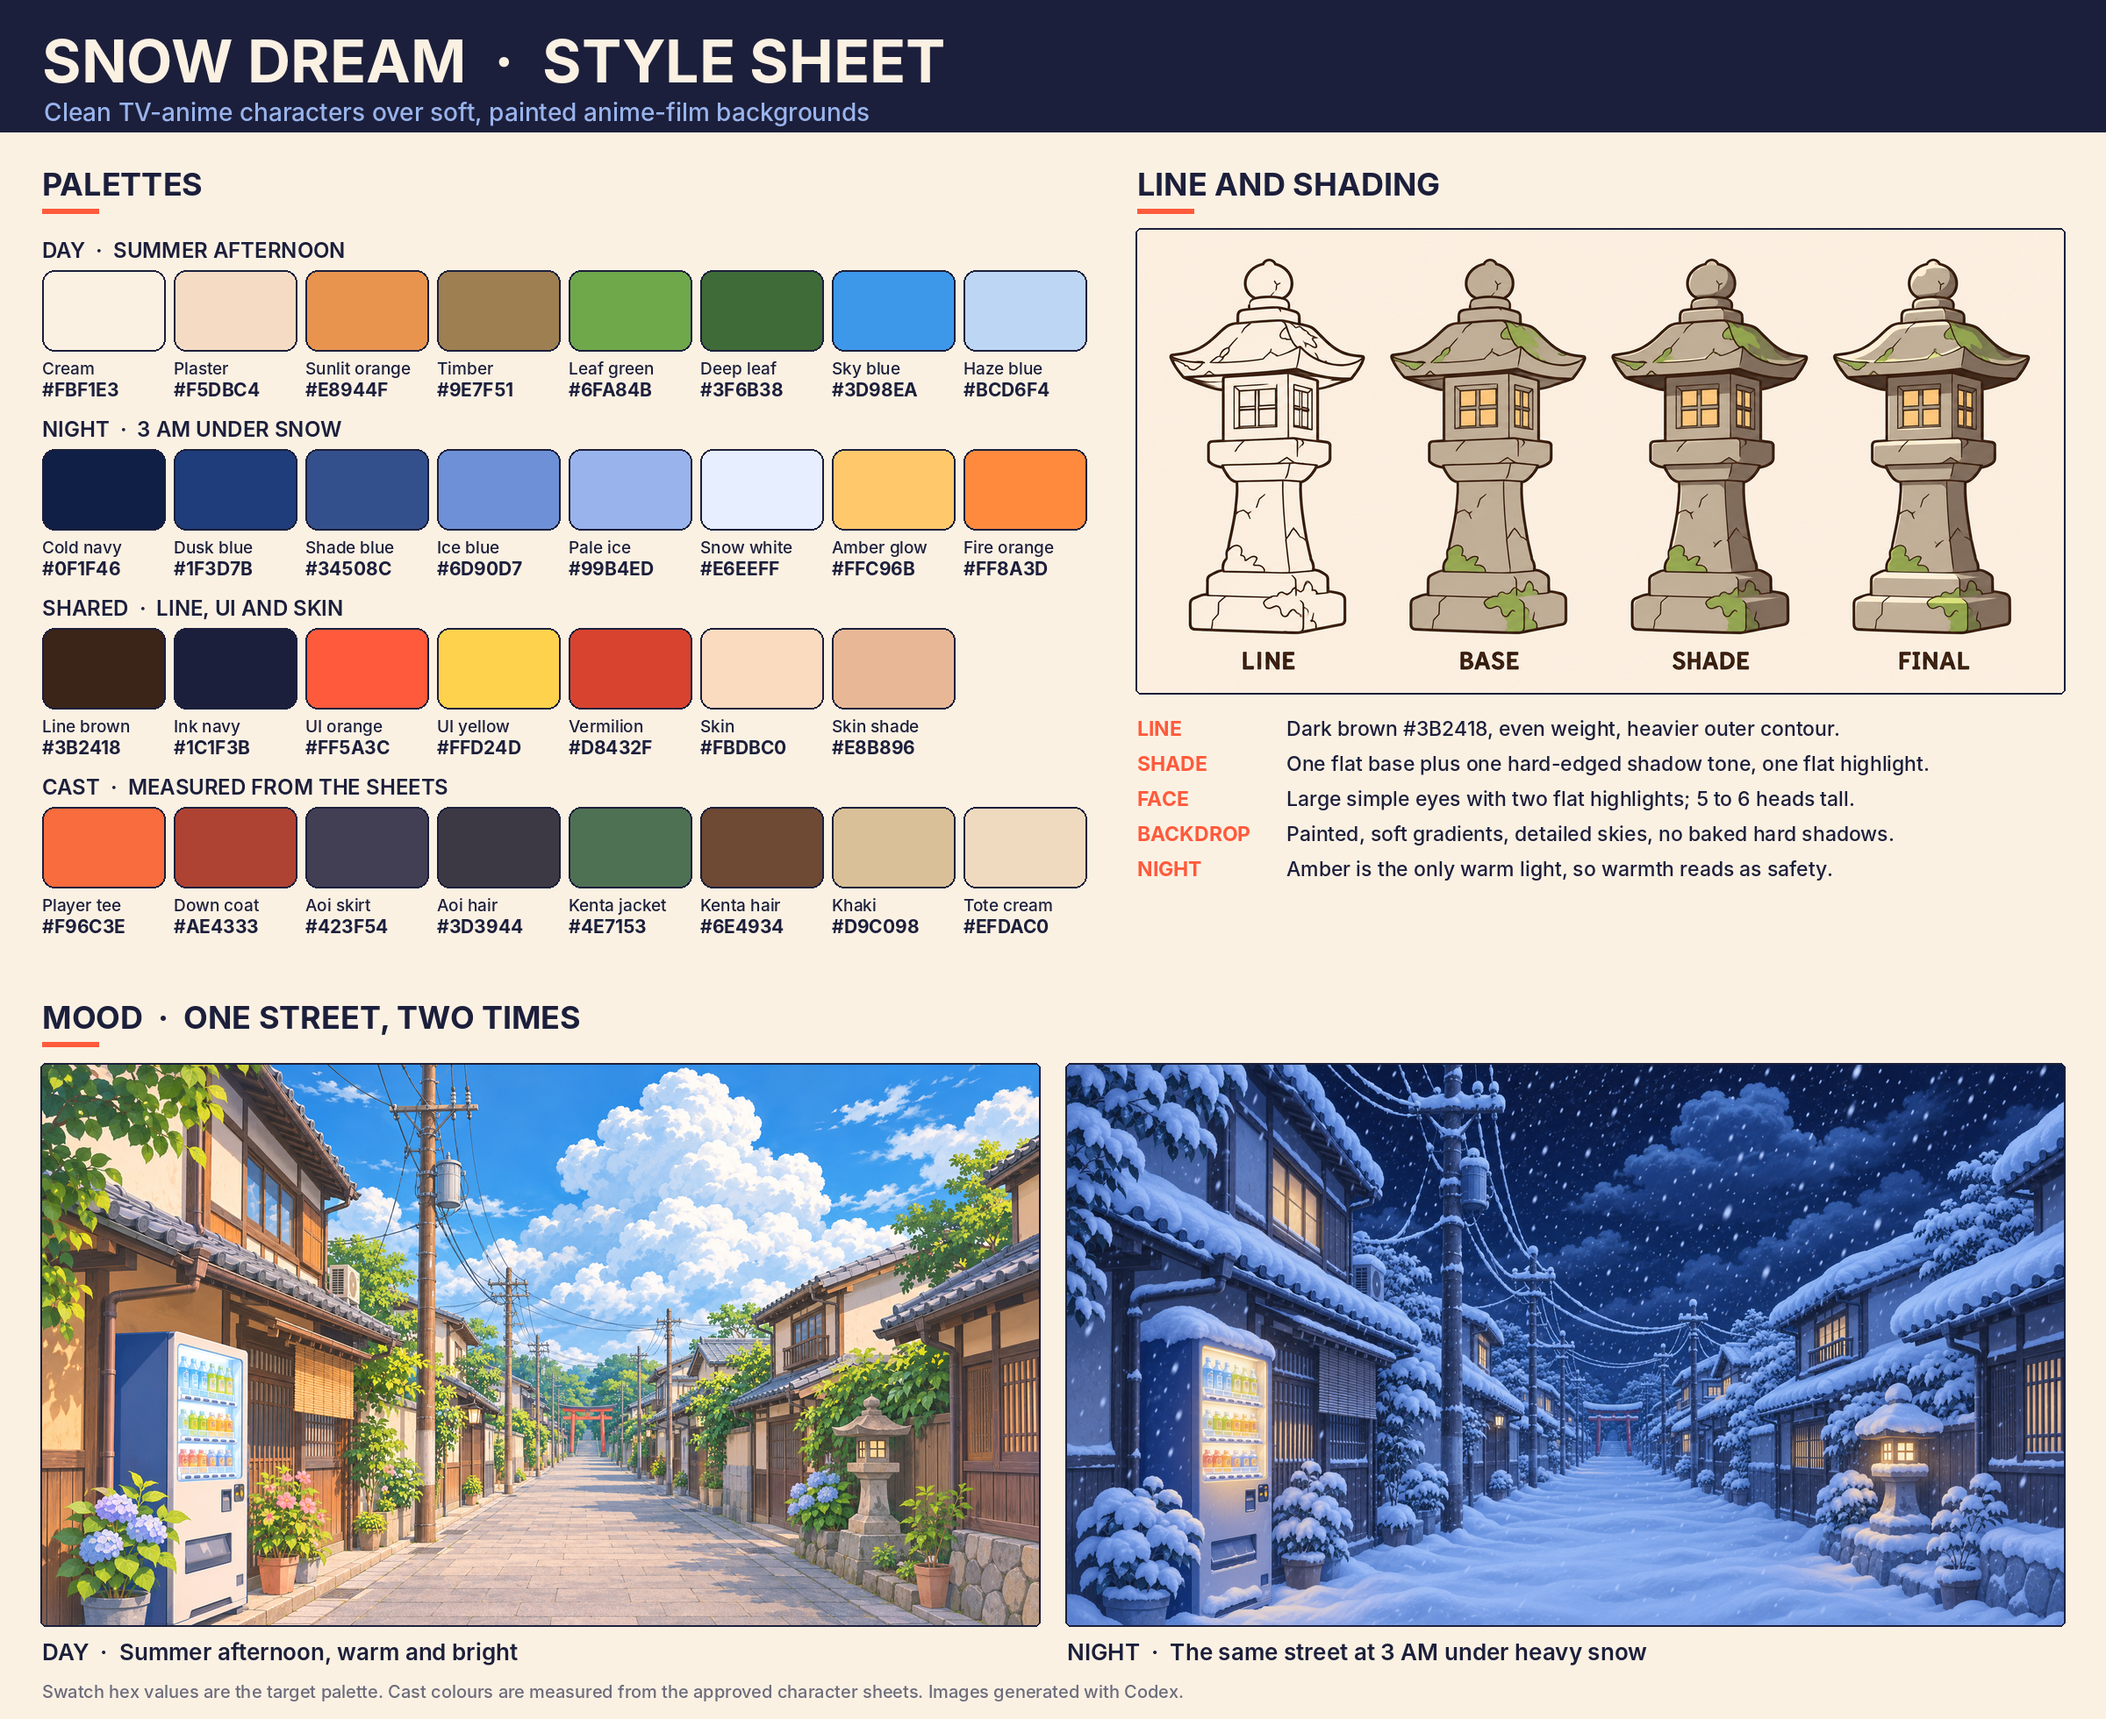
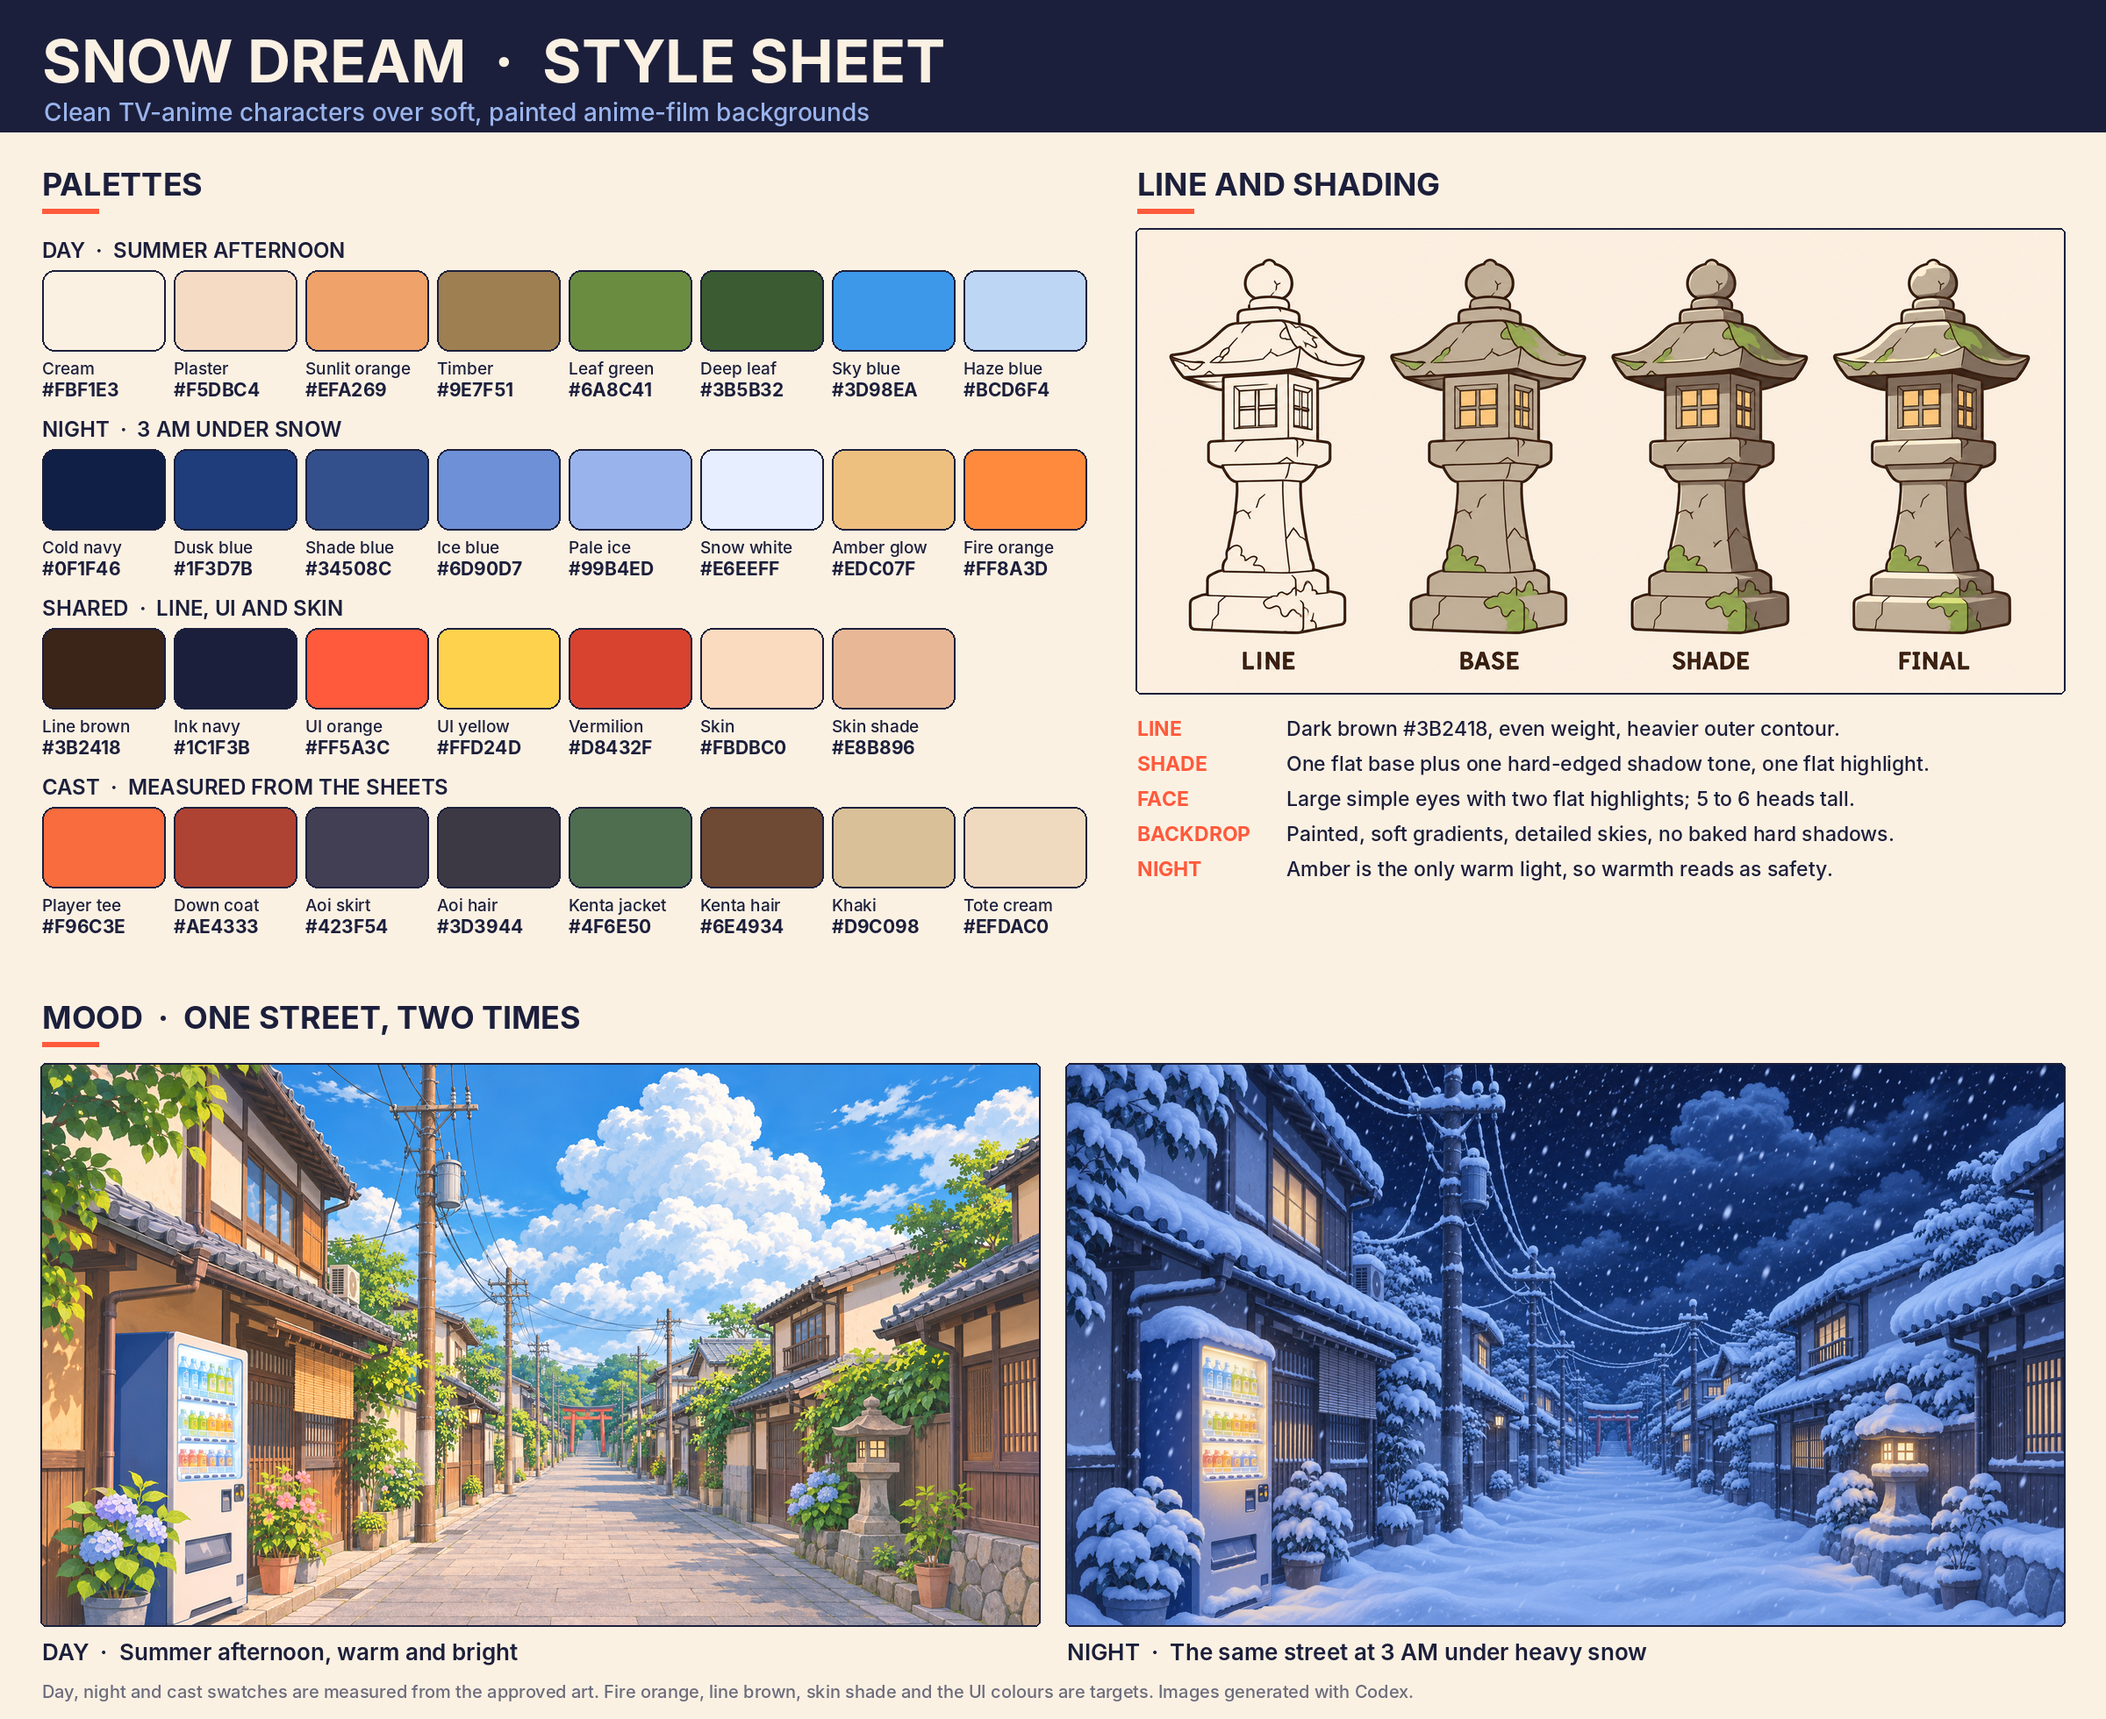
Art: measure palette from the approved frames, fix Kenta bag note (HPA-1324 self review)
Claude-Session: https://claude.ai/code/session_01DWqgZbxyDubw1MZBEb2rgz

diff --git a/art/style/README.md b/art/style/README.md
@@ -28,17 +28,17 @@ One look for every image in the game: **clean TV-anime characters over soft, pai
 
 ## Palette
 
-Target values. Swatches are on `style_sheet.png`.
+Day, night and cast values are measured from the approved art. Fire orange (not in the frames yet), line brown, skin shade and the UI colours are targets. Swatches are on `style_sheet.png`.
 
 | Day | Hex | Night | Hex |
 |---|---|---|---|
 | Cream | `#FBF1E3` | Cold navy | `#0F1F46` |
 | Plaster | `#F5DBC4` | Dusk blue | `#1F3D7B` |
-| Sunlit orange | `#E8944F` | Shade blue | `#34508C` |
+| Sunlit orange | `#EFA269` | Shade blue | `#34508C` |
 | Timber | `#9E7F51` | Ice blue | `#6D90D7` |
-| Leaf green | `#6FA84B` | Pale ice | `#99B4ED` |
-| Deep leaf | `#3F6B38` | Snow white | `#E6EEFF` |
-| Sky blue | `#3D98EA` | Amber glow | `#FFC96B` |
+| Leaf green | `#6A8C41` | Pale ice | `#99B4ED` |
+| Deep leaf | `#3B5B32` | Snow white | `#E6EEFF` |
+| Sky blue | `#3D98EA` | Amber glow | `#EDC07F` |
 | Haze blue | `#BCD6F4` | Fire orange | `#FF8A3D` |
 
 | Shared | Hex | Cast (measured from the sheets) | Hex |
@@ -47,7 +47,7 @@ Target values. Swatches are on `style_sheet.png`.
 | Ink navy (UI panel) | `#1C1F3B` | Protagonist down coat | `#AE4333` |
 | UI orange (tag) | `#FF5A3C` | Aoi skirt | `#423F54` |
 | UI yellow | `#FFD24D` | Aoi hair | `#3D3944` |
-| Vermilion (torii, omamori) | `#D8432F` | Kenta jacket | `#4E7153` |
+| Vermilion (torii, omamori) | `#D8432F` | Kenta jacket | `#4F6E50` |
 | Skin | `#FBDBC0` | Kenta hair | `#6E4934` |
 | Skin shade | `#E8B896` | Khaki trousers | `#D9C098` |
 
@@ -55,7 +55,7 @@ Target values. Swatches are on `style_sheet.png`.
 
 - **Protagonist** (no name in the game): 20, ordinary and likeable, a little sleepy-eyed. Short messy black hair with one cowlick (his silhouette mark), navy canvas bag strap across the body. Summer: orange tee, khaki cropped chinos, white sneakers. Down coat: deep-red hip-length puffer with horizontal baffles, cream scarf, dark trousers and boots.
 - **Aoi**: 19, the folklore club's only member, earnest and a little guarded. Straight blue-black bob with blunt bangs, white short-sleeve blouse, indigo pleated skirt, cream canvas tote with a notebook and a small red omamori charm. Reserved posture, arms close.
-- **Kenta**: 20, loud and friendly, collects Osaka urban legends. Messy spiky chestnut hair, wide grin, green zip jacket with sleeves pushed up over a cream graphic tee, dark cargo shorts, navy high-tops, a sticker-covered sling bag. In the side view the bag hangs on the near hip, in front and back views on his right hip; keep it on his right hip in sprites.
+- **Kenta**: 20, loud and friendly, collects Osaka urban legends. Messy spiky chestnut hair, wide grin, green zip jacket with sleeves pushed up over a cream graphic tee, dark cargo shorts, navy high-tops, a sticker-covered sling bag. The bag hangs on his right hip in every view, strap over his left shoulder.
 
 ## Files
 
@@ -73,7 +73,7 @@ Target values. Swatches are on `style_sheet.png`.
 Paste this block first in every Codex art prompt, then the item-specific text.
 
 ```text
-Style: clean TV-anime character art over soft, painted anime-film backgrounds, for a 2.5D game set in a summer Osaka neighbourhood that is buried in snow at 3 AM. Characters: clean dark-brown line art (#3B2418), even line weight with a slightly heavier outer contour, two-tone cel shading (one flat base colour plus one hard-edged shadow tone, one flat highlight band on hair), large simple anime eyes with two flat highlights, simplified hands, about 5 to 6 heads tall, a clear silhouette that still reads at 140 px tall. No gradients, airbrush or texture noise on characters, no baked ground shadow. Backgrounds and props: painted, soft gradients, detailed skies, no hard baked cast shadows (the game lights the scene). No text, logos or watermarks unless the prompt asks for specific short labels. Day palette (warm and bright): cream #FBF1E3, plaster #F5DBC4, sunlit orange #E8944F, timber #9E7F51, leaf green #6FA84B, deep leaf #3F6B38, sky blue #3D98EA, haze blue #BCD6F4. Night palette (cold, the same streets under heavy snow at 3 AM): cold navy #0F1F46, dusk blue #1F3D7B, shade blue #34508C, ice blue #6D90D7, pale ice #99B4ED, snow white #E6EEFF; amber #FFC96B and fire orange #FF8A3D (lantern, window and fire light) are the only warm colours at night, so warmth reads as safety. UI match: navy #1C1F3B panels, cream #FBF1E3 dialogue boxes, orange #FF5A3C tags, yellow #FFD24D accents.
+Style: clean TV-anime character art over soft, painted anime-film backgrounds, for a 2.5D game set in a summer Osaka neighbourhood that is buried in snow at 3 AM. Characters: clean dark-brown line art (#3B2418), even line weight with a slightly heavier outer contour, two-tone cel shading (one flat base colour plus one hard-edged shadow tone, one flat highlight band on hair), large simple anime eyes with two flat highlights, simplified hands, about 5 to 6 heads tall, a clear silhouette that still reads at 140 px tall. No gradients, airbrush or texture noise on characters, no baked ground shadow. Backgrounds and props: painted, soft gradients, detailed skies, no hard baked cast shadows (the game lights the scene). No text, logos or watermarks unless the prompt asks for specific short labels. Day palette (warm and bright): cream #FBF1E3, plaster #F5DBC4, sunlit orange #EFA269, timber #9E7F51, leaf green #6A8C41, deep leaf #3B5B32, sky blue #3D98EA, haze blue #BCD6F4. Night palette (cold, the same streets under heavy snow at 3 AM): cold navy #0F1F46, dusk blue #1F3D7B, shade blue #34508C, ice blue #6D90D7, pale ice #99B4ED, snow white #E6EEFF; amber #EDC07F and fire orange #FF8A3D (lantern, window and fire light) are the only warm colours at night, so warmth reads as safety. UI match: navy #1C1F3B panels, cream #FBF1E3 dialogue boxes, orange #FF5A3C tags, yellow #FFD24D accents.
 ```
 
 ## Running Codex
